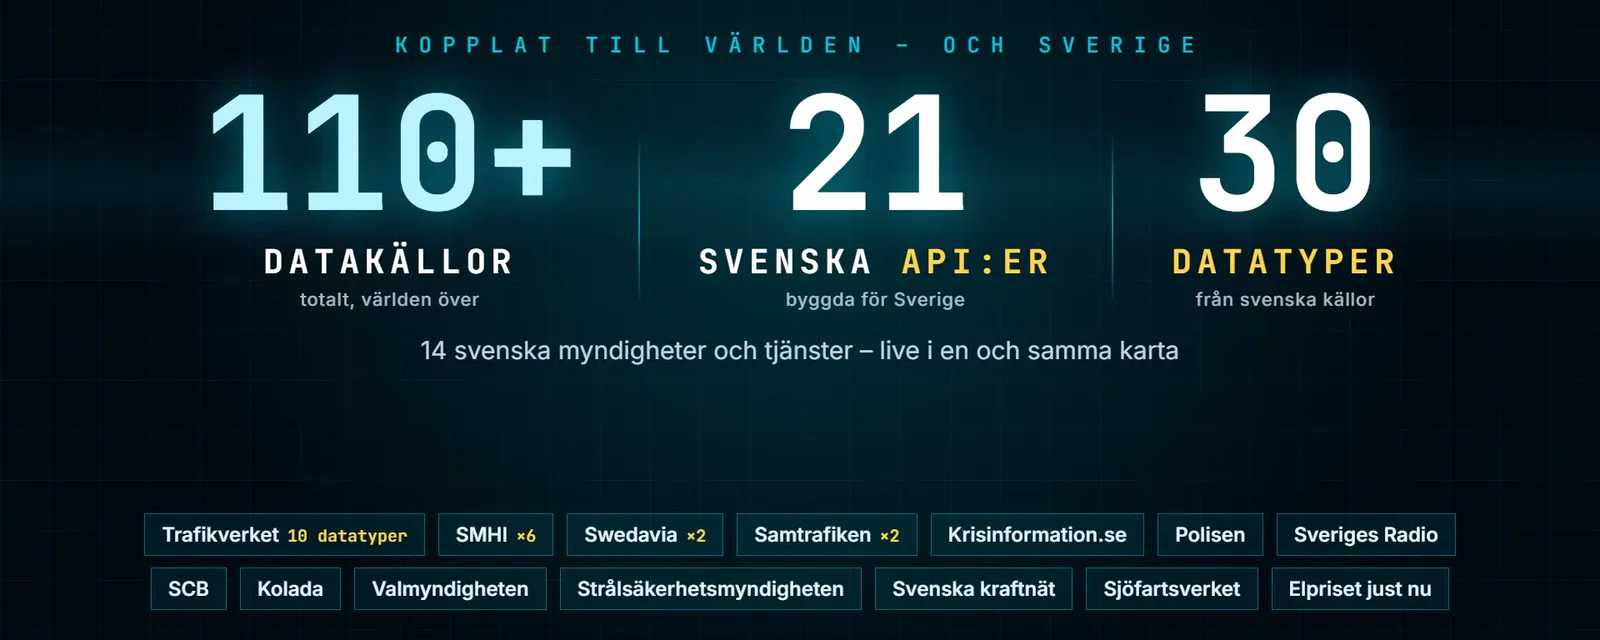
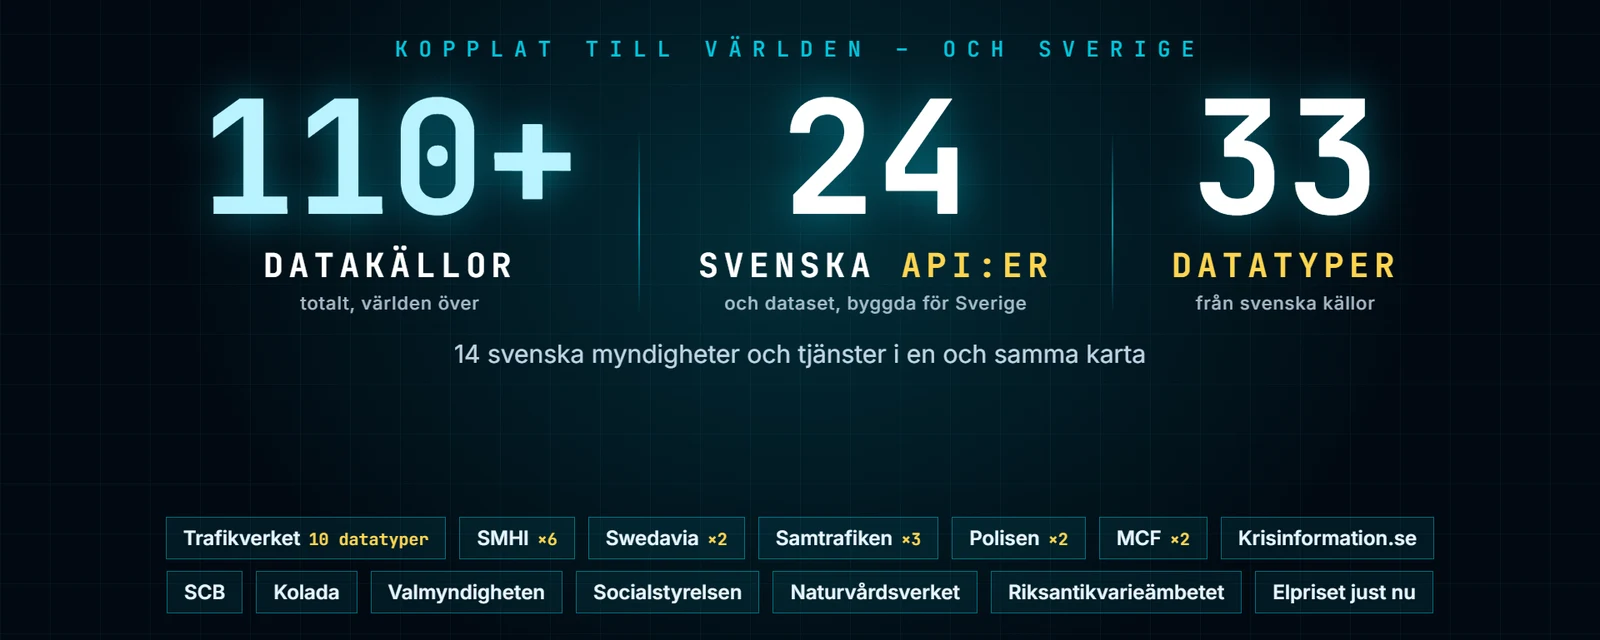
README: redraw the sources card with today's sources
The card at the top of the README named Sveriges Radio and Sjöfartsverket,
which the app no longer uses, and Svenska kraftnät, now only an option
behind ENTSO-E. The redrawn card lists the 14 Swedish sources in use by
default (Strålsäkerhetsmyndigheten, without a stated licence, is left
off) and recounts as before: 24 APIs and datasets (the sum of the
sources' marks) and 33 data types (the same with Trafikverket's 10
object types, ferries included). "Live" is dropped from the line under
the numbers, as some sources are snapshots in the repository. The
alt text, the media notes and the power grid row in SVERIGE.md follow.

diff --git a/SVERIGE.md b/SVERIGE.md
@@ -55,7 +55,7 @@ Två nivåer gäller:
 | Väder nu: ca 185 SMHI-stationer (temperatur, vind, byar, nederbörd senaste timmen) och SMHI:s prognos för platsen vid klick | SMHI metobs och prognos snow1g (CC BY 4.0, ingen nyckel) | Weather Now (Sweden) / Väder nu, under Weather |
 | Luftkvalitet: ca 75 SMHI-mätstationer (NO2, PM10, PM2.5, O3) på europeiska EAQI-skalan, tillsammans med Kanadas stationer | SMHI Datavärdskap luft (CC BY 4.0, ingen nyckel) | Air quality / Luftkvalitet, under Weather |
 | Elpris per elområde (SE1–SE4), spotpris per kvart idag och imorgon | elprisetjustnu.se (Nord Pool-priser, ingen nyckel) | Electricity Prices (Sweden), under Infrastructure |
-| Kraftsystemet: flöden på de 14 förbindelserna till och mellan elområdena (rörliga vinklar i flödesriktningen, MW), Sveriges import, export och netto totalt och per grannland, val av import/export/inrikes och en knapp per land som lyfter fram dess förbindelser, en KRAFT-panel i högerkanten med dygnet hittills eller senaste veckan per kvart (produktion per kraftslag, förbrukning och utbyte), import/export per elområde och Sveriges produktion per kraftslag och förbrukning | Svenska kraftnät, Kontrollrummet (ingen nyckel) | Power Grid (Sweden) / Kraftsystemet, under Infrastructure |
+| Kraftsystemet: flöden på de 14 förbindelserna till och mellan elområdena (rörliga vinklar i flödesriktningen, MW), Sveriges import, export och netto totalt och per grannland, val av import/export/inrikes och en knapp per land som lyfter fram dess förbindelser, en KRAFT-panel i högerkanten med dygnet hittills eller senaste veckan per kvart (produktion per kraftslag, förbrukning och utbyte), import/export per elområde och Sveriges produktion per kraftslag och förbrukning | ENTSO-E Transparency Platform (CC BY 4.0, gratisnyckel `ENTSOE_SECURITY_TOKEN`); Svenska kraftnäts Kontrollrummet bara med `POWER_GRID_SOURCE=svk` | Power Grid (Sweden) / Kraftsystemet, under Infrastructure |
 | Vattenföring: ca 150 SMHI-stationer i vattendragen, senast publicerade flöde i m³/s (kvartsvärden, publiceras med fördröjning) och om det stiger eller sjunker | SMHI hydrologiska observationer (CC BY 4.0, ingen nyckel) | River Flow (Sweden) / Vattenföring, under Weather |
 | Butikskedjor: ICA:s, Coops, Axfoods (Willys, Hemköp, City Gross), Lidls och Systembolagets butiker samt apoteken hos Apotek Hjärtat (ICA Gruppen), Apoteket, Kronans Apotek (med Apoteksgruppen) och DOZ Apotek, färgade efter företag och koncept, med en knapp per företag; klick ger adress, om butiken är öppen nu, kartlagd storlek, webbsida, telefon, rullstol och paketombud, hur många som bor inom 2 km, närmaste hållplats, närmaste andra kedjor och företaget (org.nr och huvudkontor); klick på kortet öppnar butikens webbsida. Bara butiker, inga lager eller kontor. | OpenStreetMap (ODbL) som ögonblicksbild i repot, företagsfakta från Wikidata (CC0), befolkning från SCB:s 1 km-rutor (CC0) | Retail Chains (Sweden) / Butikskedjor, under Infrastructure |
 | Brandstationer: räddningstjänstens 841 stationer, färgade efter högsta beredskapsform (heltid, deltid med eller utan första insatsperson, räddningsvärn) | Myndigheten för civilt försvar (MCF), INSPIRE-nedladdningstjänst (ingen nyckel; EU-värdefullt dataset, MCF anges som källa) | Fire Stations (Sweden) / Brandstationer, under Infrastructure |
@@ -404,6 +404,16 @@ git merge origin/main
   borta, liksom ViVa i källhänvisningar, ursprungsuppgifter och dokumentation.
   Lagret har varit SMHI som standard sedan 2026-11-13, så det som syns i
   appen ändras inte.
+- Källkortet överst i README (`docs/media/sverige/kallor.webp`) är omgjort:
+  Sveriges Radio och Sjöfartsverket (används inte), Svenska kraftnät (bara
+  tillval) och Strålsäkerhetsmyndigheten (ingen angiven licens) är borta;
+  MCF, Socialstyrelsen, Naturvårdsverket och Riksantikvarieämbetet har
+  tillkommit. Siffrorna räknas som förut: API:er och
+  dataset är summan av källornas märken (Trafikverket 1, SMHI 6, Swedavia 2,
+  Samtrafiken 3, Polisen 2, MCF 2, övriga 1), datatyper samma summa med
+  Trafikverkets 10 objekttyper; 24 och 33 i dag. "Live" är strukket ur
+  undertexten eftersom några källor är ögonblicksbilder i repot. Kraftsystemets
+  rad i tabellen ovan anger nu ENTSO-E, som är standard sedan 2026-11-11.
 - Rutan Data attribution nämnde fortfarande Sveriges Radios
   trafikmeddelanden fast lagret är dolt sedan tidigare i dag; den raden är
   borttagen.

diff --git a/docs/media/README.md b/docs/media/README.md
@@ -54,7 +54,7 @@ Kaj Obst captured the following files from God's Eye View Sverige (this fork) in
 - `sverige/fartkameror.webp`
 - `sverige/kraftsystemet.webp`
 
-They are included as project documentation for this repository and are not covered by the project's MIT License. They show Google Photorealistic 3D Tiles and live public data layers (Trafikverket, Swedavia, SMHI, SCB, Kolada, Valmyndigheten, Wikidata, ENTSO-E and others) with the in-app attribution visible in frame; those elements remain subject to Google Maps Platform's and each data provider's terms. Keep the visible attribution intact. `kallor.webp` is a title card from the fork's promotional film.
+They are included as project documentation for this repository and are not covered by the project's MIT License. They show Google Photorealistic 3D Tiles and live public data layers (Trafikverket, Swedavia, SMHI, SCB, Kolada, Valmyndigheten, Wikidata, ENTSO-E and others) with the in-app attribution visible in frame; those elements remain subject to Google Maps Platform's and each data provider's terms. Keep the visible attribution intact. `kallor.webp` is the fork's sources title card (first made for its promotional film, redrawn 2026-11-13 with today's sources).
 
 Municipal coats of arms from Wikimedia Commons appear in the city panel's header in these captures:
 

diff --git a/README.md b/README.md
@@ -28,7 +28,7 @@ Grunden är [God's Eye View](https://github.com/bilawalsidhu/gods-eye-view) av B
 
 **▶ Prova själv:** [Kom igång på 15 minuter](docs/KOM-IGANG.md). Gratis, körs på din egen dator, och de svenska nycklarna klistras in direkt i appen. Du skaffar egna nycklar, och varje källas villkor gäller dig; den svenska versionen bygger på öppna data och använder inte källor som kräver tillstånd, som OpenSky och TomTom; flyg kommer från adsb.lol (ODbL).
 
-![110+ datakällor, 21 svenska API:er, 30 datatyper från Trafikverket, SMHI, Swedavia, Samtrafiken, Krisinformation.se, Polisen, Sveriges Radio, SCB, Kolada, Valmyndigheten, Strålsäkerhetsmyndigheten, Svenska kraftnät, Sjöfartsverket och Elpriset just nu](docs/media/sverige/kallor.webp)
+![110+ datakällor, 24 svenska API:er och dataset, 33 datatyper från Trafikverket, SMHI, Swedavia, Samtrafiken, Polisen, MCF, Krisinformation.se, SCB, Kolada, Valmyndigheten, Socialstyrelsen, Naturvårdsverket, Riksantikvarieämbetet och Elpriset just nu](docs/media/sverige/kallor.webp)
 
 ### Det här är tillagt
 
